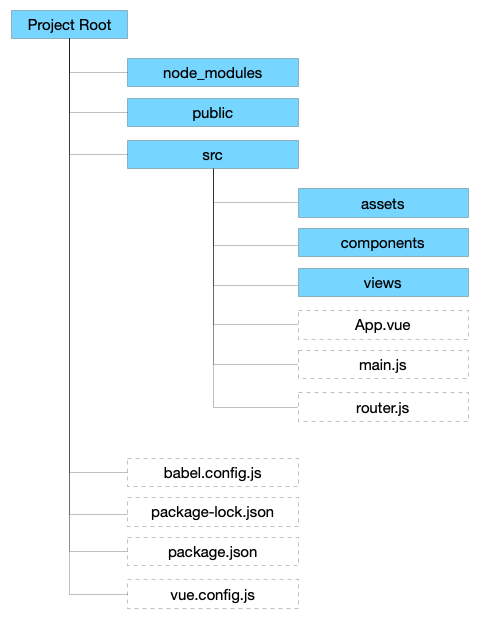
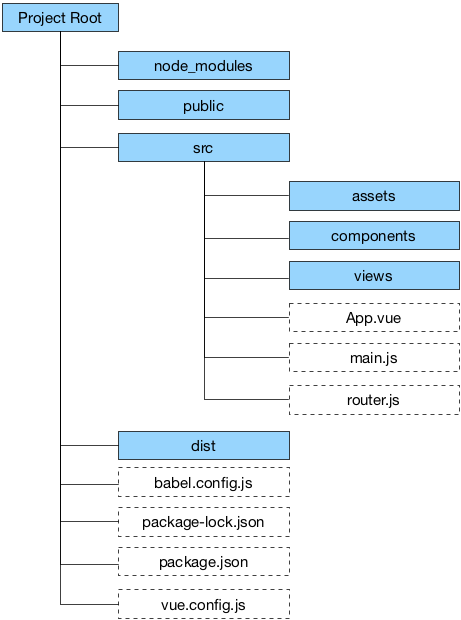
update

Changed region(s): [[0.0, 0.0, 1.0, 1.0], [0.243, 0.7968, 0.2733, 0.9806], [0.6074, 0.8581, 0.6377, 0.8887]]

diff --git a/misc/stomp.md b/misc/stomp.md
@@ -1,9 +1,7 @@
 # websocket stomp
 
 
-
-使用websocket
-
+项目中有需要双向实时通讯的部分，websocket是不二之选。websocket从名字就可以看出来比较底层，stomp js是构建在websocket之上的，类似HTTP协议在TCP上层一样，与直接使用websocket相比，使用STOMP JS会大大简化的工作。
 
 ## 安装模块
 ```bash
@@ -36,7 +34,11 @@ stompClient.connect({'Authorization': 'Bearer ' + this.token}, function(){
 	console.log("connected.")
 	//订阅消息；单独一个用户的url前有/user；发送给全部用户没有/user
 	stompClient.subscribe("/user/topic/somemessage", function(message){
-		//收到消息的回调函数; message.body是消息正文，字符串类型；如果服务器传递回来的是JSON格式，需要自行转换 var jsonBody = JSON.parse(message.body)
+		//收到消息的回调函数; 
+		//message.body是消息正文，字符串类型；
+		//如果服务器传递回来的是JSON格式，
+		//需要自行转换，例如： var jsonBody = JSON.parse(message.body)
+		console.log(message)
 	})
 }, function(){
 	//连接失败的回调函数；
@@ -46,10 +48,15 @@ stompClient.connect({'Authorization': 'Bearer ' + this.token}, function(){
 })
 ```
 
+一般项目，需要连接由于网路等原因断开后自动重连，重连的方法可以写在stompClient的失败回调函数内（注意要判断是否主动断开的）。
+
 #### 发送消息
 
 ```javascript
-//发送消息有3个参数： 1、消息发送到的地址url；2、消息头信息，JSON格式； 3、消息正文，字符串，如果是json格式，需要自行转换
+// 发送消息有3个参数： 
+//  1、消息发送到的地址url；
+//  2、消息头信息，JSON格式； 
+//  3、消息正文，字符串，如果是json格式，需要自行转换
 stompClient.send(destination, {}, body);
 ```
 

diff --git a/structure/folders.md b/structure/folders.md
@@ -3,13 +3,16 @@
 
 ![工程目录结构图](../images/folders.png)
 
+### node_modules 目录
 node_modules目录是存放的已经安装的node包，一般不要管它即可，这个目录也不会被提交到git中（.gitignore有设置）
 
+### public 目录
 public目录下默认有2个文件index.html和favicon.ico。
 
 * index.html是整个项目的模版页面，可以根据需要修改。如果你的项目是对应手机版的，要修改这里增加viewport设置，修改title，或者链接外部网站的css/js等。
 * favicon.ico是为浏览器提供网页的图标。根据需要改成自己的图标，网上有很多在线做格式转换的工具，可以把图片转成这种ico文件。
 
+### src 目录
 src目录是我们工作的主要目录，所有的源码都在这了。
 
 * assets子目录存储些静态文件，比如图片。
@@ -18,6 +21,16 @@ src目录是我们工作的主要目录，所有的源码都在这了。
 * App.vue是整个项目的vue模版
 * main.js是可以修改全局设置
 * router.js 如果使用了vue-router，则会有这个文件，修改路由表在这里
+
+### dist 目录
+
+dist目录初始是没有，运行命令`npm run build`后，会自动创建出来，存储编译好的前端。
+
+要发布前端代码时，运行命令`npm run build`然后把dist目录下的所有文件拷贝到服务器上就好了。
+
+> `npm run build`会帮我们做很多事，除了把.vue文件编译成浏览器能够识别的html/js/css外。还包含了js/css的压缩、混淆，文件名根据内容md5命名，这些有利于加速从网上下载到客户端，并降低修改后浏览器缓存的影响，这些是前端实现工程化、自动化的一部分。
+
+### 根目录下的文件
 
 继续看工程根目录下的几个文件：
 

diff --git a/engineering/glossary.md b/engineering/glossary.md
@@ -1,5 +1,6 @@
 # 相关的工具、技术和术语
 
+> 这些术语在学习前端的时候会经常出现，如果之前不了解，看下下面，大致知道它们是做啥的
 
 * **node.js** node.js是javascript的一个运行环境，是一个服务器端的javascript解释器，有些地方简称node，也有把“.”省略掉称为nodejs。
 * **NPM** npm是node.js的包管理工具，和node.js一起发行。
@@ -13,7 +14,7 @@
 
 ## 其他前端工具
 
-下面几种技术、工具在本书中不会讲解，也是前端工程化的实现方案，需要了解一下。
+下面几种技术、工具在本书中不会涉及到，也是前端工程化的实现方案，先了解下这些名词，为以后深入学习时混个脸熟。
 
 * **React** 前端开发框架，VUE的竞品。
 * **Angular** Google维护的开源前端框架，第2版前称为AngularJs，VUE的竞品

diff --git a/engineering/methodology.md b/engineering/methodology.md
@@ -1,5 +1,7 @@
 # 几个不同的实现方法
 
+> 懂哪些技术的人是自己的同行。
+
 
 以工程化的方式进行前端开发，目前比较有名气的框架有三个：
 

diff --git a/architecture/README.md b/architecture/README.md
@@ -1,5 +1,6 @@
 # MVX架构模型
 
+> 这章纯理论，理论指导实践
 
 前端工程化，工程就有架构，前端的架构基本上都是围绕着MVC模式展开的。
 

diff --git a/start/config.md b/start/config.md
@@ -1,6 +1,6 @@
 # 配置开发环境
 
-
+> 环境一定要得心应手，凑合会消耗更多的时间
 
 ## 项目路径和开发环境端口号
 

diff --git a/start/devtools.md b/start/devtools.md
@@ -1,5 +1,6 @@
 # 开发环境的搭建
 
+> 工欲善其事，必先利其器。 这章只是个基础的“器”
 
 ## 安装nodejs和npm
 ### MAC
